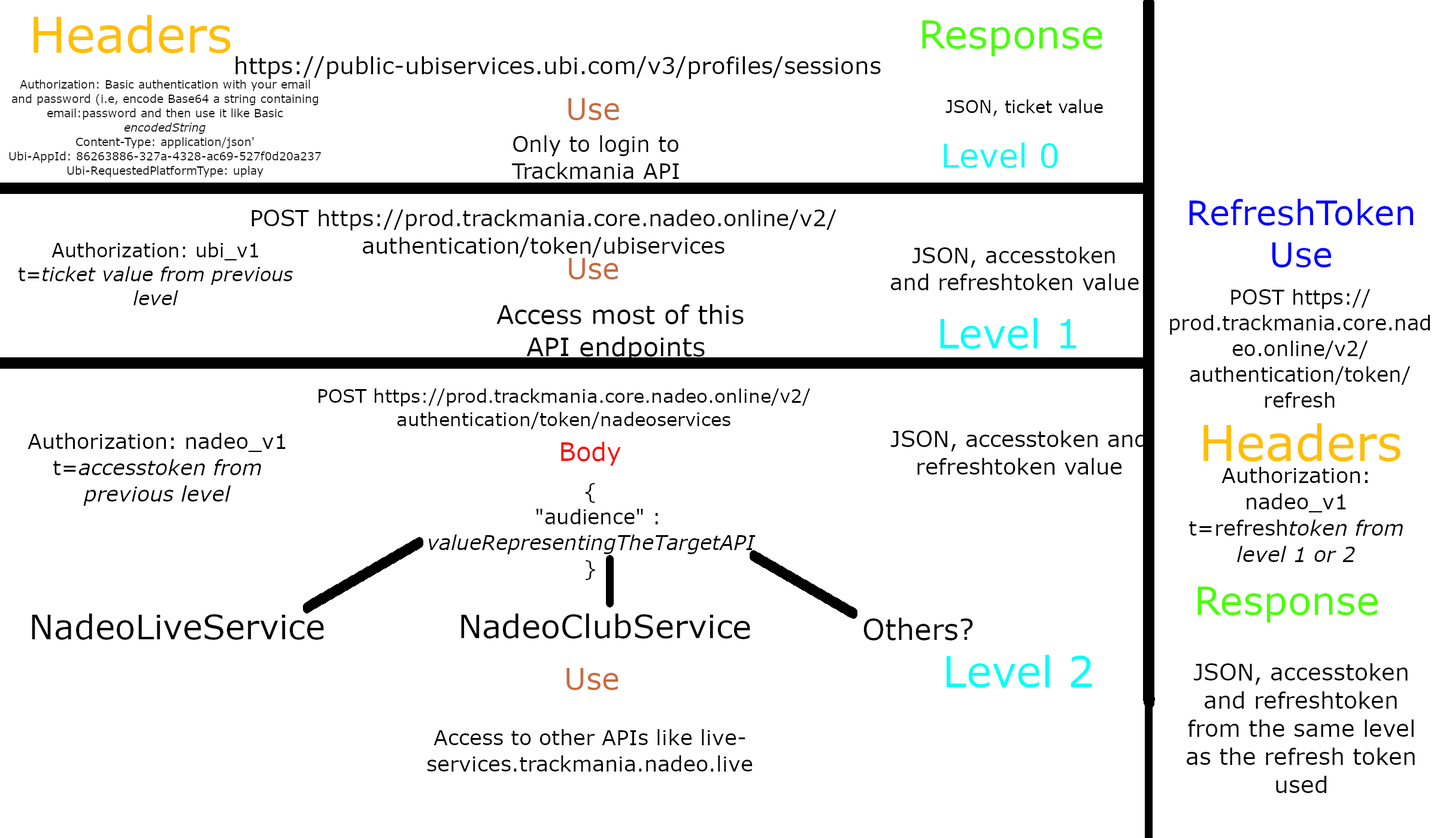
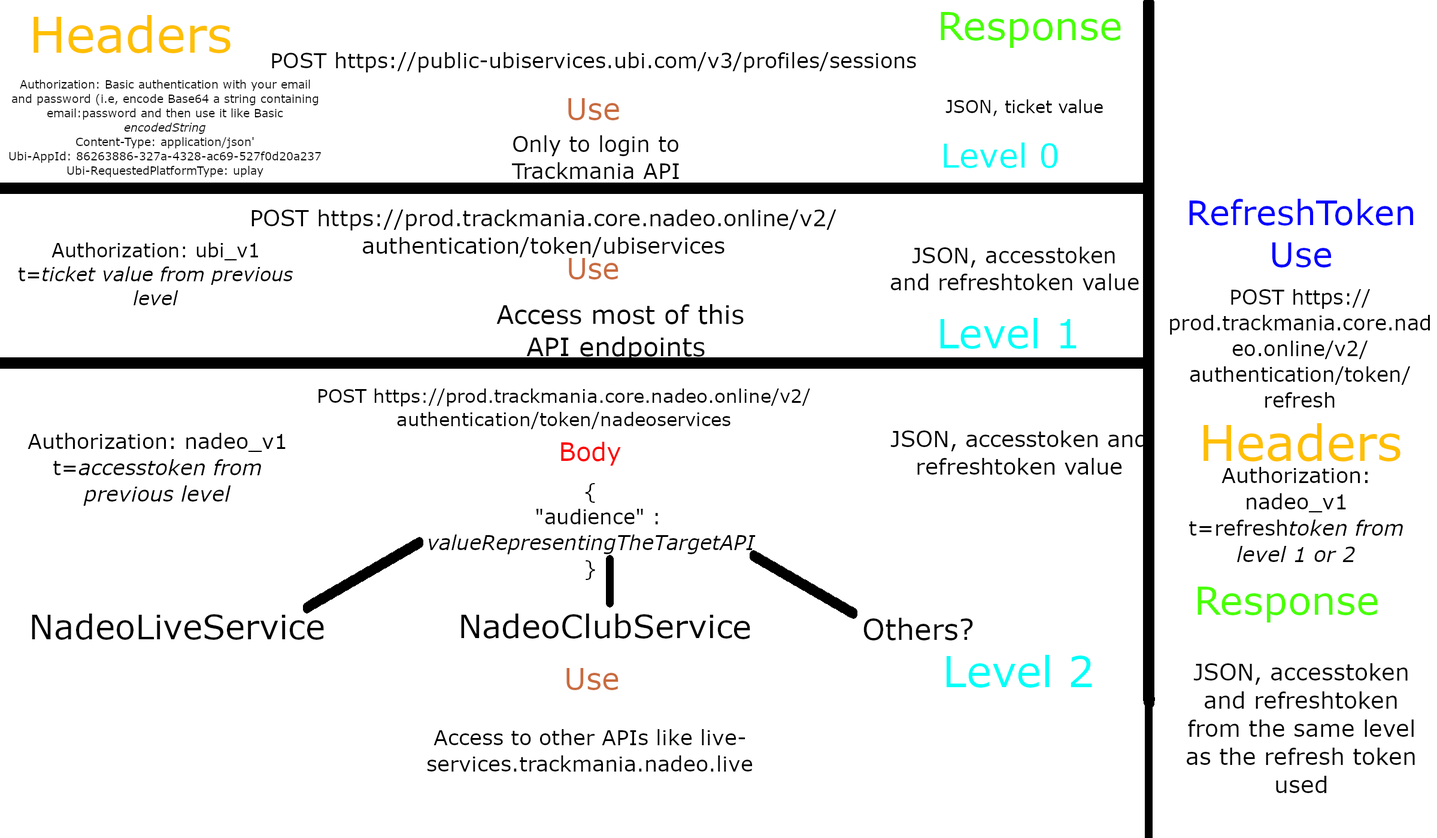
UbiServices documented

Changed region(s): [[0.1562, 0.0614, 0.625, 0.0921], [0.625, 0.0, 0.7812, 0.0614]]

diff --git a/UbiServices.md b/UbiServices.md
@@ -1,0 +1,235 @@
+# Routes useast1-public.aws-ubiservices.ubi.com
+
+## POST /v3/profiles/session
+
+* Use: Login to the ubiservices.ubi.com (the ticket obtained in the endPoint is used in the others of this API)
+
+* Headers (**probably only the authorization and the Ubi-AppId is necessary**)
+
+  * User-Agent: UbiServices_SDK_2019.Release.13_PC64_ansi_static_cn
+  * Accept: \*/\*
+  * Authorization: uplaypc_v1 t=***Idk where this token came from***
+  * Content-Type: application/json
+  * ubi-appbuildid: 202007232022
+  * Ubi-AppId: 86263886-327a-4328-ac69-527f0d20a237
+  * Ubi-localeCode: xx-PT
+  * Ubi-Populations: US_EMPTY_VALUE
+  * Content-Length: 2
+
+* Body: {}
+
+* Response:
+
+  * Content-Type: application/json; charset=utf-8
+
+  * Expires: -1
+
+  * Ubi-Forwarded-By: ue1-p-us-public-nginx-0b4fb579f26ee4405 
+
+  * Ubi-TransactionId: cc535306-ca27-4bad-b0d6-394945896335
+
+  * Strict-Transport-Security: max-age=63072000
+
+  * X-Frame-Options: DENY
+
+  * X-Content-Type-Options: nosniff
+
+  * ```json
+    {"platformType":"uplay","ticket":"*ticket*","twoFactorAuthenticationTicket":null,"profileId":"*profileId/userId*","userId":"","nameOnPlatform":"*username*","environment":"Prod","expiration":"2020-07-24T21:15:48.7337442Z","spaceId":"*spaceId","clientIp":"*ip*","clientIpCountry":"*countrycode*","serverTime":"2020-07-24T18:15:48.7393476Z","sessionId":"*sessionid*","sessionKey":"*sessionKey*","rememberMeTicket":null}
+    ```
+
+  * platformType, ticket, twoFactorAuthenticationTicket, profileId, userId, nameOnPlatform, environment, expriation, spaceId, clientIp, clientIpCountry, serverTime, sessionId, sessionKey, rememberMeTicket
+
+## GET /v1/applications/86263886-327a-4328-ac69-527f0d20a237(*Trackmania 2020 AppId*)/parameters?parameterGroups=us-staging,us-sdkClientUrlsPlaceholders,us-sdkClientClub,us-sdkClientFeaturesSwitches,us-sdkClientLogin,us-sdkClientUrls,us-sdkClientChina
+
+* Use: ***Idk, but since the URL contains the Trackmania 2020 App Id (86263886-327a-4328-ac69-527f0d20a237), it's probably related to endpoints the game should use to work***
+* Headers:
+  * User-Agent: UbiServices_SDK_2019.Release.13_PC64_ansi_static_cn
+  * Accept: \*/\*
+  * Authorization: Ubi_v1 t=*ticket value from POST /v3/profiles/session*
+  * Content-Type: application/json
+  * ubi-appbuildid: 202007232022
+  * Ubi-AppId: 86263886-327a-4328-ac69-527f0d20a237
+  * Ubi-localeCode: xx-PT
+  * Ubi-Populations: US_EMPTY_VALUE
+  * Ubi-SessionId: 5090d904-ec68-47bd-9013-db82432ff5dc
+
+* Response:
+
+  * Content-Type: application/json; charset=utf-8
+
+  * Expires: -1
+
+  * X-AspNet-Version: 4.0.30319
+
+  * X-Powered-By: ASP.NET
+
+  * Ubi-Forwarded-By: ue1-p-us-public-nginx-0b4fb579f26ee4405 
+
+  * Ubi-TransactionId: eb498bf8-ee9a-4b07-90dd-45927fa1459f
+
+  * Strict-Transport-Security: max-age=63072000
+
+  * X-Frame-Options: DENY
+
+  * X-Content-Type-Options: nosniff
+
+    ```json
+    {"parameters":{"us-staging":{"fields":{"spaceId":""},"relatedPopulation":null},"us-sdkClientUrlsPlaceholders":{"fields":{"baseurl_aws":{"Standard":"https://{env}public-ubiservices.ubi.com","China":"https://public-ubiservices.ubisoft.cn","China_GAAP":"https://gaap.ubiservices.ubi.com:12000"},"baseurl_msr":{"Standard":"https://msr-{env}public-ubiservices.ubi.com","China":"https://public-ubiservices.ubisoft.cn","China_GAAP":"https://gaap.ubiservices.ubi.com:12000"},"baseurl_ws":{"Standard":"wss://{env}public-ws-ubiservices.ubi.com","China":"wss://gaap.ubiservices.ubi.com:16000","China_GAAP":"wss://gaap.ubiservices.ubi.com:16000"}},"relatedPopulation":null},"us-sdkClientUrls":{"fields":{"populations":"https://{env}public-ubiservices.ubi.com/{version}/profiles/me/populations"},"relatedPopulation":null},"us-sdkClientLogin":{"fields":{"populationHttpRequestOptimizationEnabled":true,"populationHttpRequestOptimizationRetryCount":0,"populationHttpRequestOptimizationRetryTimeoutIntervalMsec":5000,"populationHttpRequestOptimizationRetryTimeoutIncrementMsec":1000},"relatedPopulation":null},"us-sdkClientFeaturesSwitches":{"fields":{"populationsAutomaticUpdate":true},"relatedPopulation":null},"us-sdkClientClub":{"fields":{"dynamicPanelUrl":"https://{env}public-ubiservices.ubi.com/v1/profiles/{profileId}/club/dynamicPanel/MyProfile.png?spaceId={spaceId}&noRedirect=true","ps4ClubWebsite":"https://static8.cdn.ubi.com/u/sites/uplay/index.html","ps4ClubWebsiteArguments":"url=/games/{deepLink}&spaceId={spaceId}&applicationId={applicationId}&context={context}&env={clubEnvName}&genomeid={applicationId}&actioncompleted={actionCompletedList}&ussdkversion={usSdkVersionName}&debug={debug}{geometry}&ticket={ticket}&profileid={profileId}","ps4PsnoLaunchPath":"psno://localhost/?response_type=code&client_id=171ca84a-371e-412b-a807-6531f3f1e454&scope=psn%3As2s&redirect_uri={ps4ClubWebsiteUrlEncoded}&state={ps4ClubWebsiteArgumentsPsnoEncoded}","xoneLaunchPath":"Ms-xbl-55C5EE27://default?url=/games/{deepLink}&context={context}&titleid={gameTitleId}&env={clubEnvName}&genomeid={applicationId}&actioncompleted={actionCompletedList}&debug={debug}&spaceId={spaceId}&applicationId={applicationId}","switchClubWebsiteUrl":"https://static8.cdn.ubi.com/u/sites/UbisoftClub/NintendoSwitch/index.html?url=/games/{deepLink}&ussdkversion={usSdkVersionName}&env={clubEnvName}&actioncompleted={actionCompletedList}&forceLang={forceLang}&profileId={profileId}&ticket={ticket}&context={context}&debug={debug}&spaceId={spaceId}&applicationId={applicationId}","stadiaClubWebsiteUrl":"https://static8.cdn.ubi.com/u/sites/UbisoftClub/Stadia/index.html?url=/games/{deepLink}&spaceId={spaceId}&applicationId={applicationId}&profileId={profileId}&env={env}&displayMode={displayMode}&locale={locale}&actioncompleted={actionCompletedList}&jotunVersion={jotunVersion}&jotunBinaryVersion={jotunBinaryVersion}&ticket={ticket}"},"relatedPopulation":null},"us-sdkClientChina":{"fields":{"tLogApplicationId":"","tLogApplicationKey":"","tLogApplicationName":"","websocketHost":"public-ws-ubiservices.ubi.com"},"relatedPopulation":null}}}
+    ```
+
+## PUT /v1/profiles/me/populations/data
+
+* Use: ***Idk***
+
+* Headers
+
+  * User-Agent: UbiServices_SDK_2019.Release.13_PC64_ansi_static_cn
+  * Accept: \*/\*
+  * Authorization: Ubi_v1 t=*ticket value from POST /v3/profiles/session*
+  * Content-Type: application/json
+  * ubi-appbuildid: 202007232022
+  * Ubi-AppId: 86263886-327a-4328-ac69-527f0d20a237
+  * Ubi-localeCode: xx-PT
+  * Ubi-Populations: US_EMPTY_VALUE
+  * Ubi-SessionId: 5090d904-ec68-47bd-9013-db82432ff5dc
+  * Content-Length: 125
+  * Expect: 100-continue
+
+* Body
+
+  ```json
+  {"spaceId":"*spaceId/accountId(?)*","data":{"US_SDK_APPLICATION_BUILD_ID":"202007232022","US_SDK_DURABLES":[]}}
+  ```
+
+* Response:
+
+  * Content-Type: application/json; charset=utf-8
+
+  * Expires: -1
+
+  * X-AspNet-Version: 4.0.30319
+
+  * X-Powered-By: ASP.NET
+
+  * Ubi-Forwarded-By: ue1-p-us-public-nginx-0b4fb579f26ee4405 
+
+  * Ubi-TransactionId: bb449328-e7bd-4f1f-ac80-2f3471f2a8f2
+
+  * Strict-Transport-Security: max-age=63072000
+
+  * X-Frame-Options: DENY
+
+  * X-Content-Type-Options: nosniff
+
+    ```json
+    {"populations":[]}
+    ```
+
+## GET /v1/spaces/*profileId*/parameters?parameterGroups=us-sdkClientFeaturesSwitches,us-sdkClientRemoteLogsGame,us-sdkClientSettings,us-sdkClientSettingsHttpGame,us-sdkClientSettingsHttpInternal,us-sdkClientUrls,us-sdkClientRemoteLogsInternal,us-sdkClientNotificationsGame,us-sdkClientNotificationsInternal,us-sdkClientNotificationsSpaceIds,us-override,us-sdkClientSettingsCacheTTL,us-sdkClientSettingsSecondaryStoreSync,us-sdkClientStorm,us-sdkClientSettingsWebSocketGame,us-sdkClientSettingsWebSocketInternal,NadeoServicesParameters,NadeoServicesParameters_5595,BetaParameters
+
+* Use: ***Idk, seems to have endPoints and some configuration returned***
+
+* Headers
+
+  * User-Agent: UbiServices_SDK_2019.Release.13_PC64_ansi_static_cn
+  * Accept: \*/\*
+  * Authorization: Ubi_v1 t=*ticket value from POST /v3/profiles/session*
+  * Content-Type: application/json
+  * ubi-appbuildid: 202007232022
+  * Ubi-AppId: 86263886-327a-4328-ac69-527f0d20a237
+  * Ubi-localeCode: xx-PT
+  * Ubi-Populations: US_EMPTY_VALUE
+  * Ubi-SessionId: *sessionId*
+
+* Response
+
+  * Content-Type: application/json; charset=utf-8
+
+  * Expires: -1
+
+  * X-AspNet-Version: 4.0.30319
+
+  * X-Powered-By: ASP.NET
+
+  * Ubi-Forwarded-By: ue1-p-us-public-nginx-0b4fb579f26ee4405 
+
+  * Ubi-TransactionId: 5dccdf12-2c05-4365-9b3d-d6e8fda003b6
+
+  * Strict-Transport-Security: max-age=63072000
+
+  * X-Frame-Options: DENY
+
+  * X-Content-Type-Options: nosniff
+
+    ```json
+    {"parameters":{"NadeoServicesParameters_5595":{"fields":{"masterserver_init_url":"https://prod.trackmania.core.nadeo.online/api/routes"},"relatedPopulation":null},"NadeoServicesParameters":{"fields":{"masterserver_init_url":"https://beta.trackmania.core.nadeo.online/api/routes"},"relatedPopulation":null},"us-sdkClientUrls":{"fields":{"allConnections":"https://{env}public-ubiservices.ubi.com/{version}/profiles/connections","allProfilesApplications":"https://msr-{env}public-ubiservices.ubi.com/{version}/profiles/applications","allProfilesEntities":"https://{env}public-ubiservices.ubi.com/{version}/profiles/entities","allProfilesStats":"https://{env}public-ubiservices.ubi.com/{version}/profiles/stats","allSpacesEntities":"https://{env}public-ubiservices.ubi.com/{version}/spaces/entities","allSpacesItems":"https://{env}public-ubiservices.ubi.com/{version}/spaces/items","allSpacesOffers":"https://{env}public-ubiservices.ubi.com/{version}/spaces/offers","applications":"https://{env}public-ubiservices.ubi.com/{version}/applications/{applicationId}/configuration","applicationsMetadata":"https://{env}public-ubiservices.ubi.com/{version}/applications","applicationsParameters":"https://{env}public-ubiservices.ubi.com/{version}/applications/{applicationId}/parameters","challenge":"https://{env}public-ubiservices.ubi.com/{version}/spaces/{spaceId}/challenges","challengeProgression":"https://{env}public-ubiservices.ubi.com/{version}/profiles/{profileId}/challenges/progressions","configsEvents":"https://msr-{env}public-ubiservices.ubi.com/{version}/spaces/{spaceId}/configs/events","connections":"https://{env}public-ubiservices.ubi.com/{version}/profiles/{profileId}/connections","events":"https://msr-{env}public-ubiservices.ubi.com/{version}/profiles/{profileId}/events","friends":"https://msr-{env}public-ubiservices.ubi.com/{version}/profiles/me/friends","gamesPlayed":"https://{env}public-ubiservices.ubi.com/{version}/profiles/{profileId}/gamesplayed","moderation":"https://{env}public-ubiservices.ubi.com/{version}/spaces/{spaceId}/moderation/{text}","moderationPOST":"https://{env}public-ubiservices.ubi.com/{version}/spaces/{spaceId}/moderation","news":"https://msr-{env}public-ubiservices.ubi.com/{version}/profiles/me/news","policies":"https://{env}public-ubiservices.ubi.com/{version}/policies","profiles":"https://{env}public-ubiservices.ubi.com/{version}/profiles","profilesActions":"https://msr-{env}public-ubiservices.ubi.com/{version}/profiles/{profileId}/club/actions","profilesApplications":"https://msr-{env}public-ubiservices.ubi.com/{version}/profiles/me/applications","profilesChallenges":"https://msr-{env}public-ubiservices.ubi.com/{version}/profiles/me/club/challenges","profilesEntities":"https://{env}public-ubiservices.ubi.com/{version}/profiles/{profileId}/entities","profilesExternal":"https://{env}public-ubiservices.ubi.com/{version}/profiles/external","profilesInventory":"https://{env}public-ubiservices.ubi.com/{version}/profiles/{profileId}/inventory","profilesInventoryExpiredDetails":"https://{env}public-ubiservices.ubi.com/{version}/profiles/{profileId}/inventory/expiredDetails","profilesInventoryInstances":"https://{env}public-ubiservices.ubi.com/{version}/profiles/{profileId}/inventory/instances","profilesInventoryInstancesTransactions":"https://{env}public-ubiservices.ubi.com/{version}/profiles/{profileId}/inventory/instances/transactions","profilesInventoryPrimarystore":"https://{env}public-ubiservices.ubi.com/{version}/profiles/{profileId}/inventory/primarystore","profilesInventoryTransactions":"https://{env}public-ubiservices.ubi.com/{version}/profiles/{profileId}/inventory/transactions","profilesLeaderboard":"https://{env}public-ubiservices.ubi.com/{version}/profiles/ranks","profilesMeBattlepassesSeasons":"https://{env}public-ubiservices.ubi.com/{version}/profiles/me/battlepasses/seasons","profilesMeCommunityChallenges":"https://msr-{env}public-ubiservices.ubi.com/{version}/profiles/me/club/communityChallenges","profilesMeEvents":"https://msr-{env}public-ubiservices.ubi.com/{version}/profiles/me/events","profilesMeInventoryPrimarystore":"https://{env}public-ubiservices.ubi.com/{version}/profiles/me/inventory/primarystore","profilesMeLeaderboard":"https://{env}public-ubiservices.ubi.com/{version}/profiles/me/ranks","profilesNotifications":"https://{env}public-ubiservices.ubi.com/{version}/profiles/{profileId}/notifications","profilesNotificationsBatch":"https://{env}public-ubiservices.ubi.com/{version}/profiles/notifications","profilesProfileChallenges":"https://msr-{env}public-ubiservices.ubi.com/{version}/profiles/me/club/playerchallenges","profilesPreciseMatchmakingClient":"https://{env}public-ubiservices.ubi.com/{version}/profiles/{profileId}/matches/precise/clientstate","profilesPreciseMatchmakingMatch":"https://{env}public-ubiservices.ubi.com/{version}/profiles/{profileId}/matches/precise/matchstate","profilesRewards":"https://msr-{env}public-ubiservices.ubi.com/{version}/profiles/{profileId}/club/rewards","profilesSeasonChallenges":"https://msr-{env}public-ubiservices.ubi.com/{version}/profiles/{profileId}/club/seasonchallenges?spaceId={spaceId}","profilesStats":"https://{env}public-ubiservices.ubi.com/{version}/profiles/{profileId}/stats","profilesStatsCard":"https://{env}public-ubiservices.ubi.com/{version}/profiles/statscard","profilesUgcPhotos":"https://{env}public-ubiservices.ubi.com/{version}/profiles/ugc/photos","profilesUgcPhotosOwn":"https://{env}public-ubiservices.ubi.com/{version}/profiles/{profileId}/ugc/photos","profilesUgcViews":"https://{env}public-ubiservices.ubi.com/{version}/profiles/ugc/{contentId}/views","profilesUgcFavorites":"https://{env}public-ubiservices.ubi.com/{version}/profiles/{profileId}/ugc/favorites","profilesUgcRatings":"https://{env}public-ubiservices.ubi.com/{version}/profiles/{profileId}/ugc/ratings","profilesUgcExternalVideos":"https://{env}public-ubiservices.ubi.com/{version}/profiles/ugc/externalvideos","profilesUgcUpdateFavorite":"https://{env}public-ubiservices.ubi.com/{version}/profiles/{profileId}/ugc/{contentId}/favorites","profilesUgcUpdateRating":"https://{env}public-ubiservices.ubi.com/{version}/profiles/{profileId}/ugc/{contentId}/ratings","recommendations":"https://{env}public-ubiservices.ubi.com/{version}/profiles/{profileId}/recommendations","remoteLogs":"https://{env}public-ubiservices.ubi.com/{version}/profiles/me/remotelog","sandboxes":"https://msr-{env}public-ubiservices.ubi.com/{version}/spaces/{spaceId}/sandboxes","spacesActions":"https://msr-{env}public-ubiservices.ubi.com/{version}/spaces/{spaceId}/actions","spacesBattlepasses":"https://{env}public-ubiservices.ubi.com/{version}/spaces/{spaceId}/battlepasses","spacesBattlepassesSeasons":"https://{env}public-ubiservices.ubi.com/{version}/spaces/{spaceId}/battlepasses/seasons","spacesChallengepools":"https://msr-{env}public-ubiservices.ubi.com/{version}/spaces/{spaceId}/club/challengepools","spacesChallenges":"https://msr-{env}public-ubiservices.ubi.com/{version}/spaces/{spaceId}/club/challenges","spacesCommunityChallenges":"https://msr-{env}public-ubiservices.ubi.com/{version}/spaces/{spaceId}/club/communityChallenges","spacesConfigsPrimarystore":"https://{env}public-ubiservices.ubi.com/{version}/spaces/{spaceId}/configs/primarystore","spacesConfigsSsiAttributes":"https://{env}public-ubiservices.ubi.com/{version}/spaces/{spaceId}/configs/secondarystore/instances/attributes","spacesConfigsSsiListsOfAttributes":"https://{env}public-ubiservices.ubi.com/{version}/spaces/{spaceId}/configs/secondarystore/instances/listsOfAttributes","spacesConfigsSsiRules":"https://{env}public-ubiservices.ubi.com/{version}/spaces/{spaceId}/configs/secondarystore/instances/rules","spacesConfigsUgc":"https://{env}public-ubiservices.ubi.com/{version}/spaces/{spaceId}/configs/ugc","spacesEntities":"https://{env}public-ubiservices.ubi.com/{version}/spaces/{spaceId}/entities","spacesItems":"https://{env}public-ubiservices.ubi.com/{version}/spaces/{spaceId}/items","spacesLeaderboard":"https://{env}public-ubiservices.ubi.com/{version}/spaces/{spaceId}/leaderboards","spacesNews":"https://msr-{env}public-ubiservices.ubi.com/{version}/spaces/news","spacesOffers":"https://{env}public-ubiservices.ubi.com/{version}/spaces/{spaceId}/offers","spacesParameters":"https://{env}public-ubiservices.ubi.com/{version}/spaces/{spaceId}/parameters","spacesRewards":"https://msr-{env}public-ubiservices.ubi.com/{version}/spaces/{spaceId}/rewards","spacesSeasonChallenges":"https://msr-{env}public-ubiservices.ubi.com/{version}/spaces/{spaceId}/club/seasonchallenges","spacesStats":"https://{env}public-ubiservices.ubi.com/{version}/spaces/{spaceId}/communitystats","spacesStatsCard":"https://{env}public-ubiservices.ubi.com/{version}/spaces/{spaceId}/communitystatscard","sessions":"https://{env}public-ubiservices.ubi.com/{version}/profiles/sessions","users":"https://{env}public-ubiservices.ubi.com/{version}/users","tLog":"https://tglog.datamore.qq.com/{appId}/report/","voicechatTokenVivox":"https://{env}public-ubiservices.ubi.com/{version}/profiles/{profileId}/voicechattoken/vivox","voicechatConfigVivox":"https://{env}public-ubiservices.ubi.com/{version}/spaces/{spaceId}/configs/voicechat/vivox","websocketNotifications":"wss://{env}public-ws-ubiservices.ubi.com/{version}/websocket","websocketServer":"wss://{env}public-ws-ubiservices.ubi.com"},"relatedPopulation":null},"us-sdkClientStorm":{"fields":{"detectConfig":"EnableDebug=false;ValidateDetect=true","detectProvisioningUrl":"https://ncsa-storm.ubi.com/v1/natdetect","traversalProvisioningUrl":"https://ncsa-storm.ubi.com/v1/nattraversal","routerProvisioningUrl":"https://apac-storm.ubi.com/v1/router;https://emea-storm.ubi.com/v1/router;https://ncsa-storm.ubi.com/v1/router;https://ap-southeast-2-storm.ubi.com/v1/router","matchmakingSandboxName":"SM_PC_LNCH_A","matchmakingSandboxSpaceId":"*matchmakingSandboxSpaceId*"},"relatedPopulation":null},"us-sdkClientSettingsWebSocketInternal":{"fields":{"maxCount":50,"connectionPingIntervalSec":30,"retryIncrementFactorMsec":5000,"retryRandomDelayMsec":5000,"retryInitialDelayMsec":5000,"timeoutInitialDelayMsec":30000,"timeoutIncrementFactorMsec":5000},"relatedPopulation":null},"us-sdkClientSettingsWebSocketGame":{"fields":{"connectionPingIntervalSec":30,"retryIncrementFactorMsec":5000,"retryRandomDelayMsec":5000,"retryInitialDelayMsec":5000,"timeoutInitialDelayMsec":30000,"timeoutIncrementFactorMsec":5000},"relatedPopulation":null},"us-sdkClientSettingsSecondaryStoreSync":{"fields":{"maxCount":10,"retryInitialDelayMsec":5000,"retryIncrementFactorMsec":5000,"retryRandomDelayMsec":5000},"relatedPopulation":null},"us-sdkClientSettingsHttpInternal":{"fields":{"maxCount":3,"retryInitialDelayMsec":5000,"retryIncrementFactorMsec":5000,"retryRandomDelayMsec":5000,"timeoutInitialDelayMsec":30000,"timeoutIncrementFactorMsec":5000},"relatedPopulation":null},"us-sdkClientSettingsHttpGame":{"fields":{"maxCount":3,"retryInitialDelayMsec":5000,"retryIncrementFactorMsec":5000,"retryRandomDelayMsec":5000,"timeoutInitialDelayMsec":30000,"timeoutIncrementFactorMsec":5000},"relatedPopulation":null},"us-sdkClientSettingsCacheTTL":{"fields":{"defaultSec":120,"profilesNewsSec":900,"spacesNewsSec":900,"profilesActionsSec":120,"profilesChallengesSec":120,"profilesRewardsSec":120,"friendsListSec":1800,"ssiAttributesAllSec":86400,"ssiListsOfAttributesAllSec":86400,"ssiRulesAllSec":86400,"profilesChallengesStatusSeasonSec":60,"challengesDefinitionSeasonSec":180,"battlepassSeasonProgressionSec":60},"relatedPopulation":null},"us-sdkClientSettings":{"fields":{"popEventsTimeoutMsec":5000,"primaryStoreSyncDelayMsec":250,"minBackgroundDurationForInventoryInvalidationMsec":5000,"notificationTypesUpdateRandomDelayMsec":3000,"xboxOneResumeFromSuspendedDelayMsec":5000,"createSessionRestPeriodMSec":3000,"createSessionRestRandomMSec":5000,"xboxOneCloseWebsocketOnSuspendingMode":"All","waitRemoteLogCompletionOnDeleteSession":false,"createSessionRestPeriodAfterConcurrentConnectDetectedMSec":60000},"relatedPopulation":null},"us-sdkClientRemoteLogsInternal":{"fields":{"maxTextLength":32768,"applicationUsed":"None","applicationInformation":"None","async":"None","authentication":"None","battlepass":"Warning","challenge":"None","club":"None","configuration":"None","connection":"None","core":"None","coreNotification":"None","entity":"None","event":"None","friend":"None","gamesPlayed":"None","http":"None","httpEngine":"None","job":"None","leaderboard":"None","localization":"None","matchmaking":"None","mobileExtension":"None","moderation":"Warning","news":"None","notification":"None","overlay":"Warning","parameters":"Warning","population":"None","primaryStore":"None","profile":"None","recommendations":"None","remoteLog":"None","scheduler":"None","secondaryStore":"None","stats":"None","task":"None","test":"None","tLog":"Warning","ugc":"Warning","user":"None","userContent":"None","voicechat":"None","websocket":"None"},"relatedPopulation":null},"us-sdkClientRemoteLogsGame":{"fields":{"url":"","maxTextLength":32768,"uncategorized":"None"},"relatedPopulation":null},"us-sdkClientNotificationsSpaceIds":{"fields":{"FriendsService":"*friendServiceId*"},"relatedPopulation":null},"us-sdkClientNotificationsInternal":{"fields":{"BATTLEPASS_TIERS_BANKED":true,"CHALLENGES_PROGRESSION_COMPLETED":true,"CHALLENGES_REWARDS_BANKED":true,"CLUB_REWARD_PURCHASED":true,"CLUB_ACTION_COMPLETED":true,"CLUB_CHALLENGE_THRESHOLD_REACHED":true,"CLUB_CHALLENGE_PARTICIPATION":true,"CLUB_CHALLENGE_BANKED":true,"CLUB_BADGE_ACQUIRED":true,"CLUB_CHALLENGE_COMPLETED":true,"FRIENDS_RELATIONSHIP_UPDATE":true,"SSI_INSTANCES_UPDATE":true,"US_CLIENT_SECONDARY_STORE_UPDATE":true,"US_APP_PARAMS_FULL_UPDATE":true,"US_APP_PARAMS_GROUP_UPDATE":true,"US_NOTIFICATION_MAINTENANCE":true,"US_SPACE_PARAMS_FULL_UPDATE":true,"US_SPACE_PARAMS_GROUP_UPDATE":true},"relatedPopulation":null},"us-sdkClientNotificationsGame":{"fields":{"additionalSpaces":[]},"relatedPopulation":null},"us-sdkClientFeaturesSwitches":{"fields":{"applicationUsed":true,"applicationInformation":true,"battlepass":true,"challenge":false,"clubApplication":true,"clubDynamicPanel":true,"clubService":true,"createSession":true,"entitiesProfile":true,"entitiesSpace":true,"event":true,"extendSession":true,"firstPartyAccessToMultiplayerInformation":true,"friendsLookup":true,"friendsRequest":true,"friendsUplayProfile":false,"gamesPlayed":true,"httpClient":true,"leaderboardMe":true,"leaderboardProfiles":true,"leaderboardSpaces":true,"matchmaking":true,"mobileExtensionProfilesExternal":true,"mobileExtensionUsersManagement":true,"moderation":true,"news":true,"notificationDynamicUpdate":true,"notificationRequestConnections":true,"notificationSend":true,"notificationSendBatch":true,"notificationSendNoBroker":true,"notificationWebsocket":true,"notificationRemoteLogReceivedData":false,"populations":true,"populationsAutomaticUpdate":true,"primaryStoreCatalogGetGameMediaType":false,"primarySecondaryStoreForceSyncAtLogin":true,"primaryStore":true,"primaryStoreAutomaticFetch":true,"primaryStoreSendEvent":true,"profiles":true,"recommendations":true,"secondaryStore":true,"secondaryStoreInstantiation":false,"secondaryStoreTransactions":true,"sessionTicket":true,"stats":true,"syncOnResumeToForegroundForNintendoSwitch":false,"tlog":true,"users":true,"ugc":false,"usersCreateAndLink":true,"usersLegalOptins":true,"voicechat":true,"webSocketClient":true},"relatedPopulation":null}}}
+    ```
+
+## GET /v1/spaces/*profileId*/configs/primarystore
+
+* Use: ***Idk***
+
+* Headers
+
+  * User-Agent: UbiServices_SDK_2019.Release.13_PC64_ansi_static_cn
+  * Accept: \*/\*
+  * Authorization: Ubi_v1 t=*ticket value from POST /v3/profiles/session*
+  * Content-Type: application/json
+  * ubi-appbuildid: 202007232022
+  * Ubi-AppId: 86263886-327a-4328-ac69-527f0d20a237
+  * Ubi-localeCode: *localCode*
+  * Ubi-Populations: US_EMPTY_VALUE
+  * Ubi-SessionId: *sessionId*
+
+* Response
+
+  * Ubi-Forwarded-By: ue1-p-us-public-nginx-0b4fb579f26ee4405 
+
+  * Ubi-TransactionId: 7f2c7738-1f1c-4bd6-aff8-c0611ea11c69
+
+  * Strict-Transport-Security: max-age=63072000
+
+  * X-Frame-Options: DENY
+
+  * X-Content-Type-Options: nosniff
+
+    ```json
+    {"mappings":[]}
+    ```
+
+## GET v3/profiles?profileId=*profileIdsListSeparatedByComma*
+
+* Use: Get more info about the users
+
+* Headers
+
+  * User-Agent: UbiServices_SDK_2019.Release.13_PC64_ansi_static_cn
+  * Accept: \*/\*
+  * Authorization: Ubi_v1 t=*ticket value from POST /v3/profiles/session*
+  * Content-Type: application/json
+  * ubi-appbuildid: 202007232022
+  * Ubi-AppId: 86263886-327a-4328-ac69-527f0d20a237
+  * Ubi-localeCode: *localCode*
+  * Ubi-Populations: US_EMPTY_VALUE
+  * Ubi-SessionId: *sessionId*
+
+* Response
+
+  * Content-Type: application/json; charset=utf-8
+
+  * Expires: -1
+
+  * Ubi-Forwarded-By: ue1-p-us-public-nginx-0b4fb579f26ee4405 
+
+  * Ubi-TransactionId: 21519912-1041-41c2-9532-1525e532dee6
+
+  * Strict-Transport-Security: max-age=63072000
+
+  * X-Frame-Options: DENY
+
+  * X-Content-Type-Options: nosniff
+
+    ```json
+    {"profiles":[{"profileId":"*profileId/userId/idOnPlataform*","userId":"*profileId/userId/idOnPlataform*","platformType":"uplay","idOnPlatform":"*profileId/userId/idOnPlataform*","nameOnPlatform":"*name*"}]}
+    ```

diff --git a/README.md b/README.md
@@ -17,6 +17,8 @@ For the game to work, first we need to authenticate. The next picture ilustrates
 
 ![LoginProcess](loginTrackmania.png)
 
+*Although this is the primary login process, there's more like we found in the UbiServices*
+
 As you can see, you only need to use the Login Level 0, 1 and 2 only one time, after that you only need to refresh the token from Level 1 and 2 without needing for Uplay login anymore.
 
 The next image represent the APIs used and their uses:
@@ -31,7 +33,7 @@ You can access in more detail what endpoints exist, the information needed to se
 
 [Live Services API](LiveServices.md)
 
-[UbiServices]()
+[UbiServices](UbiServices.md)
 
 [msr-public and akamai.net]()
 
